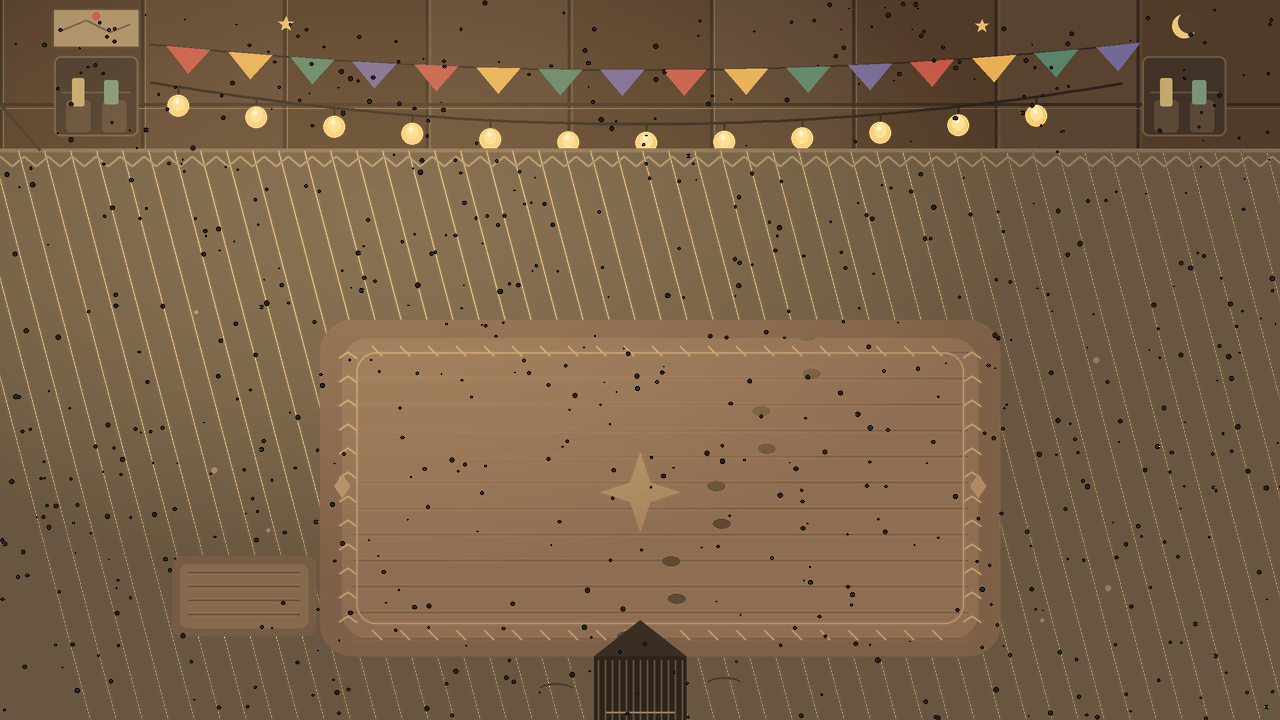
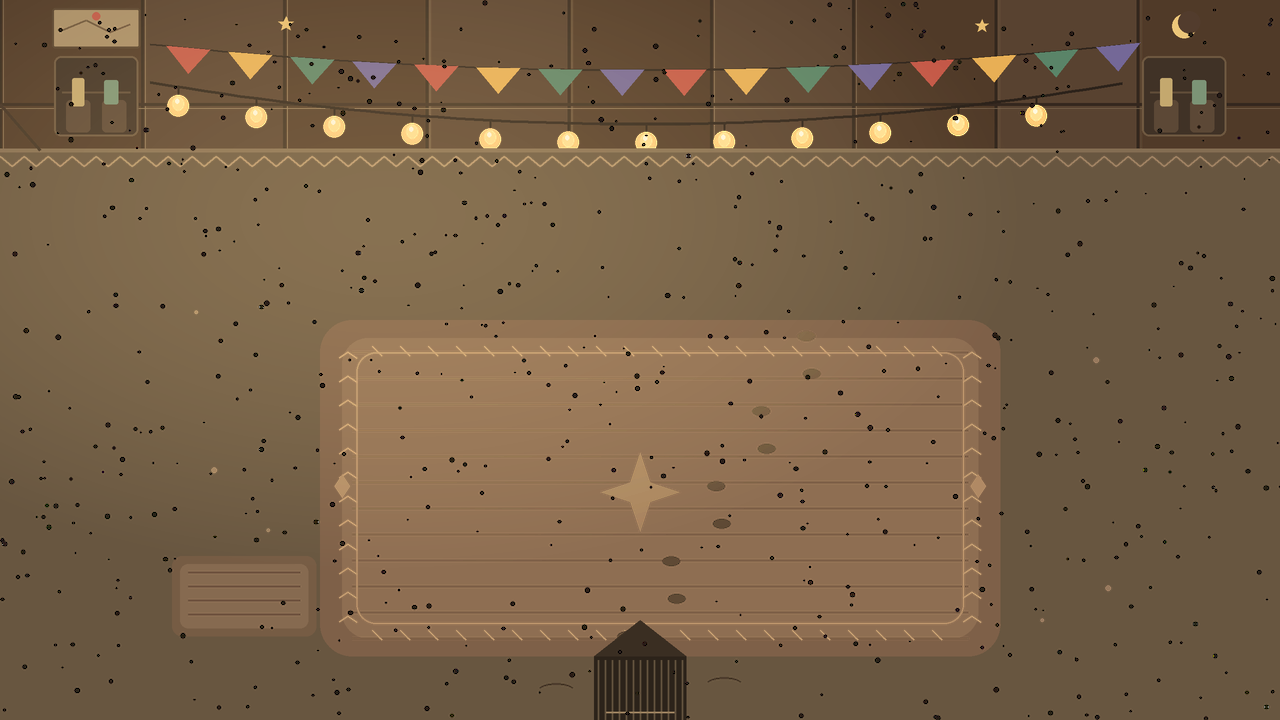
사선 결 제거하고 바닥에 놓이는 소품 3종 추가

diff --git a/Project/pico_heist/art_sprites.py b/Project/pico_heist/art_sprites.py
@@ -541,6 +541,45 @@ def book():
     return down(im, w, h)
 
 
+def stool():
+    """접이식 캠핑 의자 — 바닥에 놓이는 소품."""
+    w, h, ss = 52, 48, 3
+    im = Image.new("RGBA", (w * ss, h * ss), (0, 0, 0, 0))
+    p = Pen(im, ss)
+    p.pline([(12, 18), (40, 44)], "#5E4A35", 3)   # 접힌 다리
+    p.pline([(40, 18), (12, 44)], "#5E4A35", 3)
+    p.rr((6, 10, 46, 24), 5, "#3E6E6A", "#254A47", 1)
+    p.rr((10, 13, 42, 20), 3, "#4C807A")
+    p.pline([(11, 24), (41, 24)], "#254A47", 1.2)
+    return down(im, w, h)
+
+
+def rope_coil():
+    """말아 놓은 로프 — 바닥에 놓이는 소품."""
+    w, h, ss = 70, 30, 3
+    im = Image.new("RGBA", (w * ss, h * ss), (0, 0, 0, 0))
+    p = Pen(im, ss)
+    p.ell((6, 6, 64, 28), "#B99A6B")
+    p.ell((12, 9, 58, 25), "#8C7A54")
+    p.ell((18, 12, 52, 22), "#B99A6B")
+    p.ell((24, 14, 46, 20), "#8C7A54")
+    p.pline([(58, 16), (68, 22), (64, 28)], "#B99A6B", 2)
+    return down(im, w, h)
+
+
+def firstaid():
+    """구급 상자 — 바닥에 놓이는 소품."""
+    w, h, ss = 54, 40, 3
+    im = Image.new("RGBA", (w * ss, h * ss), (0, 0, 0, 0))
+    p = Pen(im, ss)
+    p.rr((20, 5, 34, 14), 3, "#8A6743")           # 손잡이
+    p.rr((6, 10, 48, 38), 5, "#E8E1CB", "#B9B09A", 1)
+    p.rr((10, 14, 16, 20), 2, "#B9B09A")          # 잠금쇠
+    p.rr((24, 16, 30, 32), 2, "#C0563C")          # 십자 표시
+    p.rr((18, 22, 36, 28), 2, "#C0563C")
+    return down(im, w, h)
+
+
 def sleepbag():
     """텐트 안 침낭 (가로로 눕힌 형태)."""
     w, h, ss = 132, 68, 3
@@ -747,6 +786,9 @@ def build_all():
     save(rollmat(), "prop_rollmat.png")
     save(mug(), "prop_mug.png")
     save(book(), "prop_book.png")
+    save(stool(), "prop_stool.png")
+    save(rope_coil(), "prop_rope.png")
+    save(firstaid(), "prop_firstaid.png")
     save(sleepbag(), "prop_sleepbag.png")
     save(sleeper(), "prop_sleeper.png")
 

diff --git a/Project/pico_heist/maps.py b/Project/pico_heist/maps.py
@@ -87,6 +87,9 @@ MAPS = [
                 ("prop_rollmat", 1050, 470, 1.00),   # 오른쪽 말아 놓은 매트
                 ("prop_mug", 300, 600, 1.00),        # 쿨러 옆 머그컵
                 ("prop_book", 1060, 250, 1.00),      # 오른쪽 위 공책
+                ("prop_stool", 560, 618, 1.00),      # 문 왼쪽 접이식 의자
+                ("prop_rope", 1040, 600, 1.00),      # 오른쪽 바닥 로프
+                ("prop_firstaid", 300, 400, 1.00),   # 왼쪽 바닥 구급 상자
             ],
             "food": ("mallow", 820, 286),
             "campers": [

diff --git a/Project/pico_heist/make_assets.py b/Project/pico_heist/make_assets.py
@@ -373,10 +373,6 @@ def bg_tent():
     # 바닥 매트
     d.rectangle([0, 150 * ss, W * ss, H * ss], fill=(104, 86, 64, 255))
     d.line([0, 150 * ss, W * ss, 150 * ss], fill=(132, 110, 82, 235), width=4 * ss)
-    # 매트 바깥 바닥 결 (러그가 덮는 가운데는 나중에 가려진다)
-    for x in range(-60, W + 60, 26):
-        d.line([(x * ss, 150 * ss), ((x + 150) * ss, H * ss)],
-               fill=(122, 100, 76, 48), width=2 * ss)
     # 바닥 첫 줄 지그재그 테두리
     for x in range(0, W, 24):
         d.line([(x * ss, 156 * ss), ((x + 12) * ss, 166 * ss),

diff --git a/Project/pico_heist/game.py b/Project/pico_heist/game.py
@@ -131,6 +131,9 @@ PROP_SPECS = {
     "prop_rollmat":    dict(solid=(88, 24), cover=None, pad=1, shadow=80),
     "prop_mug":        dict(solid=(24, 28), cover=None, pad=1, shadow=24),
     "prop_book":       dict(solid=(36, 20), cover=None, pad=1, shadow=36),
+    "prop_stool":      dict(solid=(40, 34), cover=None, pad=1, shadow=40),
+    "prop_rope":       dict(solid=(60, 20), cover=None, pad=1, shadow=60),
+    "prop_firstaid":   dict(solid=(44, 28), cover=None, pad=1, shadow=44),
 }
 
 

diff --git a/Project/pico_heist/README.md b/Project/pico_heist/README.md
@@ -60,7 +60,7 @@ python main.py
 - **3번 맵에만 무대 뒤 조리 부스** 서브 맵이 있다. 주황 부스 앞에서 **E**로 들어가고, 안쪽 출입구에서 다시 **E**로 나온다. 진짜 음식 수프가 이 안에 있다.
 - 2번 맵에는 **부두 위에 서 있는 사람이 없다.** 대신 호숫가 언덕에 **앉아서 낚시하는 캠핑객**이 물을 바라보며 앉아 있다(낚싯줄과 물결 연출 포함).
 - 텐트 안에는 **자는 사람**이 있다. 시야는 없지만 **가까이 가면 감지도가 아주 급격하게 오른다**.
-- 텐트 안에는 테이블·쿨러·크레이트 짐더미까지 **소품 15개**가 있어 문에서 음식까지 동선이 한 번씩 꺾인다. 테이블은 추격 시야를 끊는 유일한 엄폐물이다. (자는 사람은 소리를 듣지 않으므로 이 소품들은 감지 수치를 낮추지 않고, 동선만 늘린다.) 배낭·말아 놓은 매트·머그컵·공책 4개는 **지나갈 수는 없지만 시야를 가리지는 않는 장식**이라 동선만 늘리고 감지 수치는 낮추지 않는다. 벽에는 깃발·전등 줄·별 스티커·수납 포켓·지도 메모가 걸려 있고 바닥에는 끝술과 마름모 무늬가 있는 러그, 바닥 결·지그재그 테두리·발자국·왼쪽 곁매트가 깔려 있다. **뒤쪽 벽은 바닥 매트 시작선(y=150)까지 막혀 있어 벽 위를 걸을 수 없다.**
+- 텐트 안에는 테이블·쿨러·크레이트 짐더미까지 **소품 18개**가 있어 문에서 음식까지 동선이 한 번씩 꺾인다. 테이블은 추격 시야를 끊는 유일한 엄폐물이다. (자는 사람은 소리를 듣지 않으므로 이 소품들은 감지 수치를 낮추지 않고, 동선만 늘린다.) 배낭·말아 놓은 매트·머그컵·공책·접이식 의자·로프·구급 상자 7개는 **지나갈 수는 없지만 시야를 가리지는 않는 장식**이라 동선만 늘리고 감지 수치는 낮추지 않는다. 벽에는 깃발·전등 줄·별 스티커·수납 포켓·지도 메모가 걸려 있고 바닥에는 끝술과 마름모 무늬가 있는 러그, 지그재그 테두리·발자국·왼쪽 곁매트가 깔려 있다. **뒤쪽 벽은 바닥 매트 시작선(y=150)까지 막혀 있어 벽 위를 걸을 수 없다.**
 - 텐트 안에서 쫓기면 출입구로 도망쳐 나올 수 있다 (나가는 순간 추격 종료).
 - 마지막 음식(=진짜 음식)이 텐트 안에 있으면, **밖으로 나오는 순간 출구가 열린다.** 게이트까지 걸어가 E를 눌러야 다음 맵으로 간다.
 - **2번 맵 호숫가 낚시 맵**: 나무 배 위에서만 움직인다. E 홀드 게이지가 1.5초면 가득 차고, 초록 구간 타이밍에 E를 떼면 물고기가 떠오르는 연출과 소음(26)이 발생한다. 빗나가면 도망친다. 잡은 생선은 HUD 15칸의 ★ 슬롯에 들어간다.
@@ -111,7 +111,7 @@ pico_heist/
 ├─ maps.py          # 3개 맵 + 텐트 안 1개 + 호숫가 낚시 맵 (소품·음식·캠핑객·출구 길·물/벽 충돌)
 ├─ art_sprites.py   # 캐릭터·소품·음식·침낭/자는 사람 스프라이트 생성 (PIL)
 ├─ make_assets.py   # 배경 5종·시야 콘·HUD·텐트/낚시배·출구 게이트/길 표지·인트로/엔딩 오버레이 + 발소리 WAV 생성
-└─ assets/          # 생성된 PNG 159개 + WAV 2개
+└─ assets/          # 생성된 PNG 162개 + WAV 2개
 ```
 
 - 맵 추가는 `maps.py`의 `MAPS` 리스트에 딕셔너리 하나를 더 넣으면 됩니다.
@@ -154,7 +154,7 @@ pico2d 창을 띄운 상태에서 로직을 직접 실행하는 자동 검증 22
 - 감지 100% → 추격 시작, 추격 중 거리 감소, 따라잡히면 게임 오버
 - 따돌리면 추격 종료 → 원래 자리 복귀 → 다시 순찰 (추격 속도 240 확인)
 - 시야 콘(뒤·콘 밖), 엄폐물에 의한 시야 차단, 수풀 은신·해제·근거리 예외
-- **텐트 출입(E) · 텐트 안 음식 · 자는 사람 근접 급상승 · 텐트 소품 15개(장식 4개 포함) · 텐트에서 출구 개방 지연**
+- **텐트 출입(E) · 텐트 안 음식 · 자는 사람 근접 급상승 · 텐트 소품 18개(장식 소품 7개 포함) · 텐트에서 출구 개방 지연**
 - 음식 프롬프트·획득·획득 소음
 - **수풀 앉기(X): 이동 정지 · 근거리·자는 사람·추격 시야 무시 · 추격 포기 · 수풀 이탈 시 자동 일어남**
 - 5개 수집(야외 4 + 텐트 1) → 출구 개방 → **게이트까지 걸어가 E를 눌러야** 다음 맵 전환, 물 충돌, 15개 수집 → 최종 게이트 → 클리어, R 재시작
@@ -168,7 +168,7 @@ pico2d 창을 띄운 상태에서 로직을 직접 실행하는 자동 검증 22
 - **걸어서 다음 맵으로: 맵 완료 시 게이트 + 길 표지 표시, 게이트 밖에서는 E 프롬프트 없음, 낚시 후 부두 복귀에도 출구 유지, 마지막 게이트 E에서만 win**
 - **HUD 15칸 유지, 별 표시 + 남은 음식(5→0)/진짜 음식(0/3) 카운터 검증**
 - 맵/음식 데이터, 15종 음식 중복 없음, 맵마다 수풀 5개 이상, 텐트 소품 포함 모든 스프라이트 존재
-- 텐트 소품 15개(테이블 엄폐 + 장식 4개는 통과 불가·엄폐 없음), 뒤쪽 벽 위 걷기 방지, 텐트 음식이 항상 자는 사람의 위험 반경 안에 있는지
+- 텐트 소품 18개(테이블 엄폐 + 장식 소품 7개는 통과 불가·엄폐 없음), 뒤쪽 벽 위 걷기 방지, 텐트 음식이 항상 자는 사람의 위험 반경 안에 있는지
 
 ## 아직 없는 것 (3주차 이후)
 
